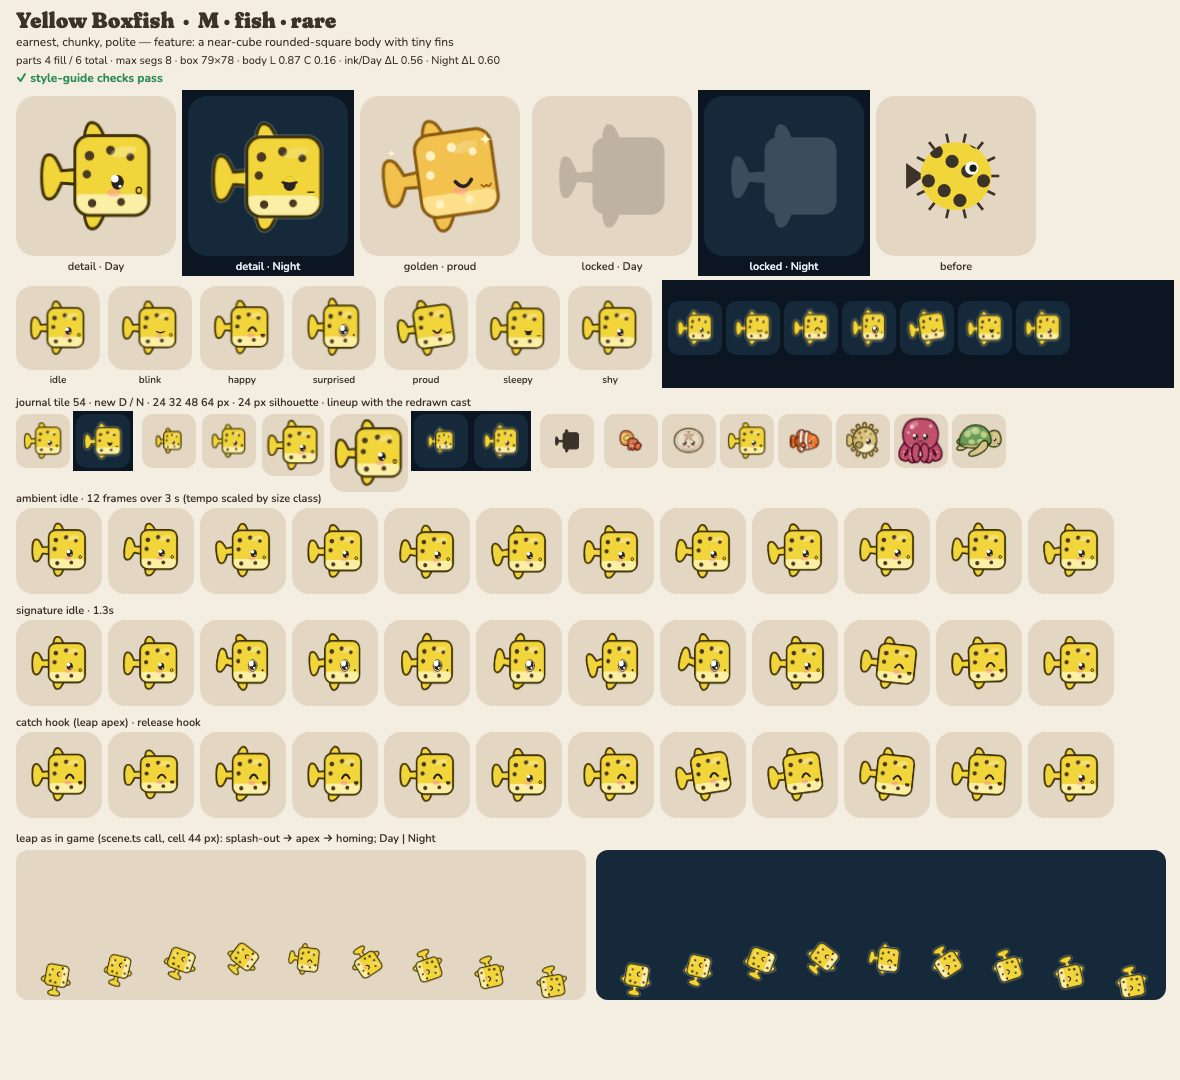
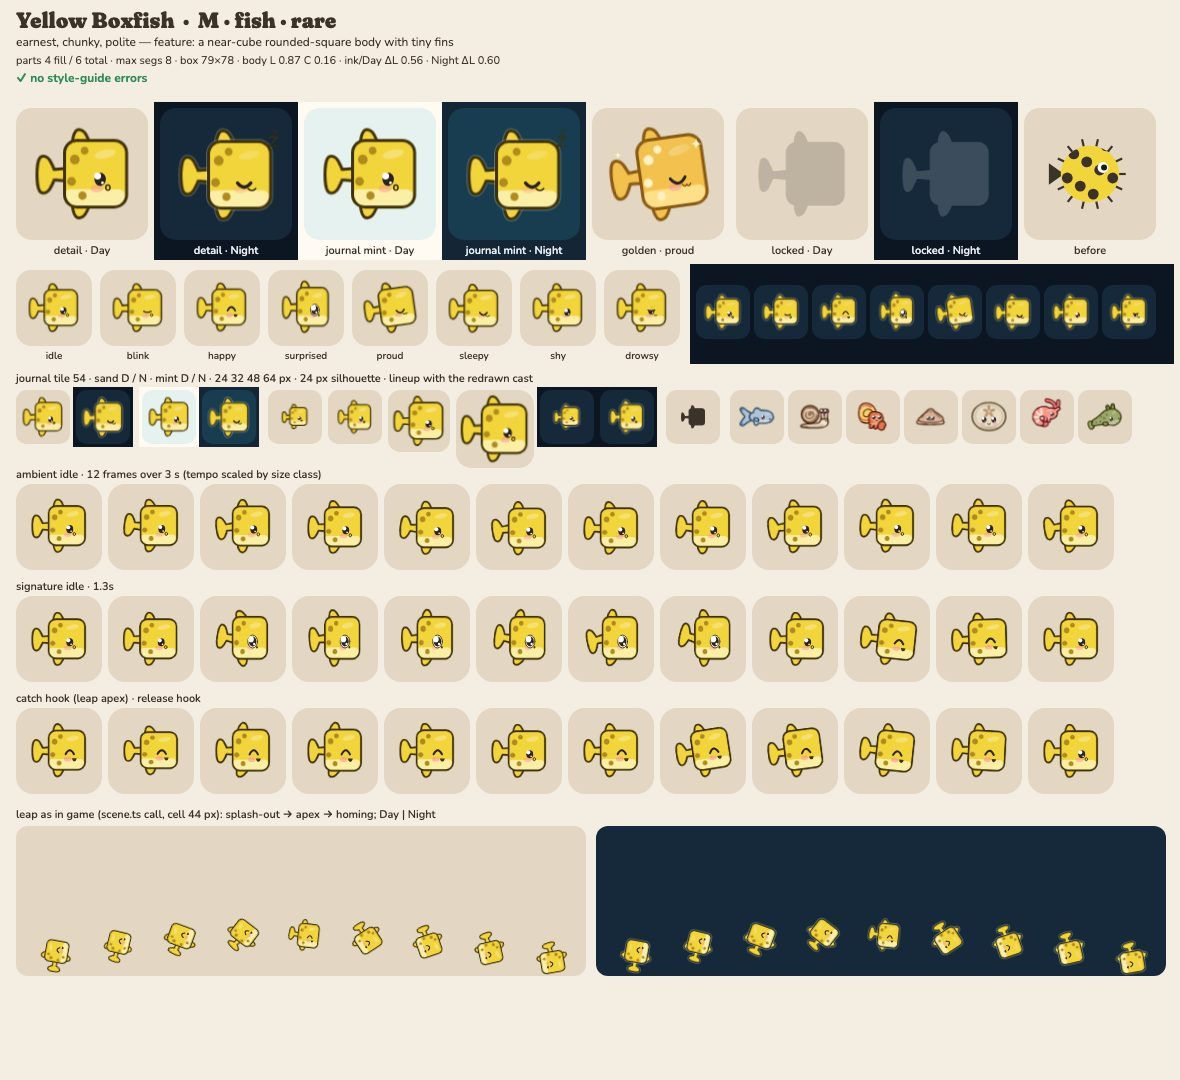
art: boxfish redo, gold dots off the face, pout under the eye (ADR 0011)

diff --git a/src/render/art/species/boxfish.ts b/src/render/art/species/boxfish.ts
@@ -33,14 +33,12 @@ const anal = blob([
   [-12, 37],
   [-14, 27],
 ]);
-// six hand-placed polka dots (R18), clear of the eye and lips
+// four hand-placed polka dots in the body's own dark gold (R18), all behind the face zone
 const dots = join(
-  ellipse(-12, -16, 3.6, 3.6),
-  ellipse(4, -20, 3.4, 3.4),
-  ellipse(19, -15, 3, 3),
-  ellipse(-14, -2, 3.2, 3.2),
-  ellipse(-10, 20, 3.2, 3.2),
-  ellipse(12, 19, 3, 3),
+  ellipse(-14, -14, 4.4, 4.4),
+  ellipse(-5, -22, 3.6, 3.6),
+  ellipse(-17, 6, 4, 4),
+  ellipse(-7, 19, 3.8, 3.8),
 );
 
 /** A fast ±deg whir between u0 and u1 (the signature's furious little fins). */
@@ -57,7 +55,7 @@ export default defineArt({
   size: 'M',
   feature: 'a near-cube rounded-square body with tiny fins',
   personality: ['earnest', 'chunky', 'polite'],
-  palette: { body: '#F2D43B', accent: '#4A3A22', belly: '#FBEFA6' },
+  palette: { body: '#F2D43B', accent: '#B08A1E', belly: '#FBEFA6' },
   groups: [
     { id: 'tail', pivot: [-23, 0], parts: [{ d: tail, role: 'body' }] },
     { id: 'dorsal', pivot: [-8, -28], parts: [{ d: dorsal, role: 'body' }] },
@@ -74,9 +72,9 @@ export default defineArt({
   shine: ellipse(14, -19, 10, 4, -12),
   face: {
     eyes: [[9, 4]],
-    eye: 11,
+    eye: 12.3,
     zone: [-4, -29, 36, 56],
-    mouth: { at: [25, 10], w: 7, shape: 'pout' },
+    mouth: { at: [16, 11.5], w: 7, shape: 'pout' },
     sweet: true,
   },
   idle: {

diff --git a/docs/art/notes/fleet-2.md b/docs/art/notes/fleet-2.md
@@ -218,3 +218,10 @@ Worst same-class pair overall among mine: clownfish/sunfish 0.684 and limpet/nau
 - R18W: the six spots are now all ≥ 6.4 units across (the two smallest were 5–5.8).
 - R2L: the pectoral fin rays are 3-unit lines at 30 % alpha (soft detail; they were 1.4 u).
 - Lint clean; silhouette unchanged (closest: combjelly 0.73 cross-class, clownfish 0.68 same class).
+
+## boxfish (graded B → redo)
+- Polka dots are now 4, in the body's own dark gold `#B08A1E` (was near-black `#4A3A22`), 7–9 units,
+  all behind the face zone, so the eye is the only dark dot on the face at 24–32 px.
+- `pout` moved to 0.6 eye-heights below the eye and close under it (it read as a stray dot at the
+  snout); eye up to 12.3 (22 % of the zone).
+- Lint clean; IoU unchanged (sanddollar 0.73 cross-class, puffer 0.67 same class). Self-grade A-.
